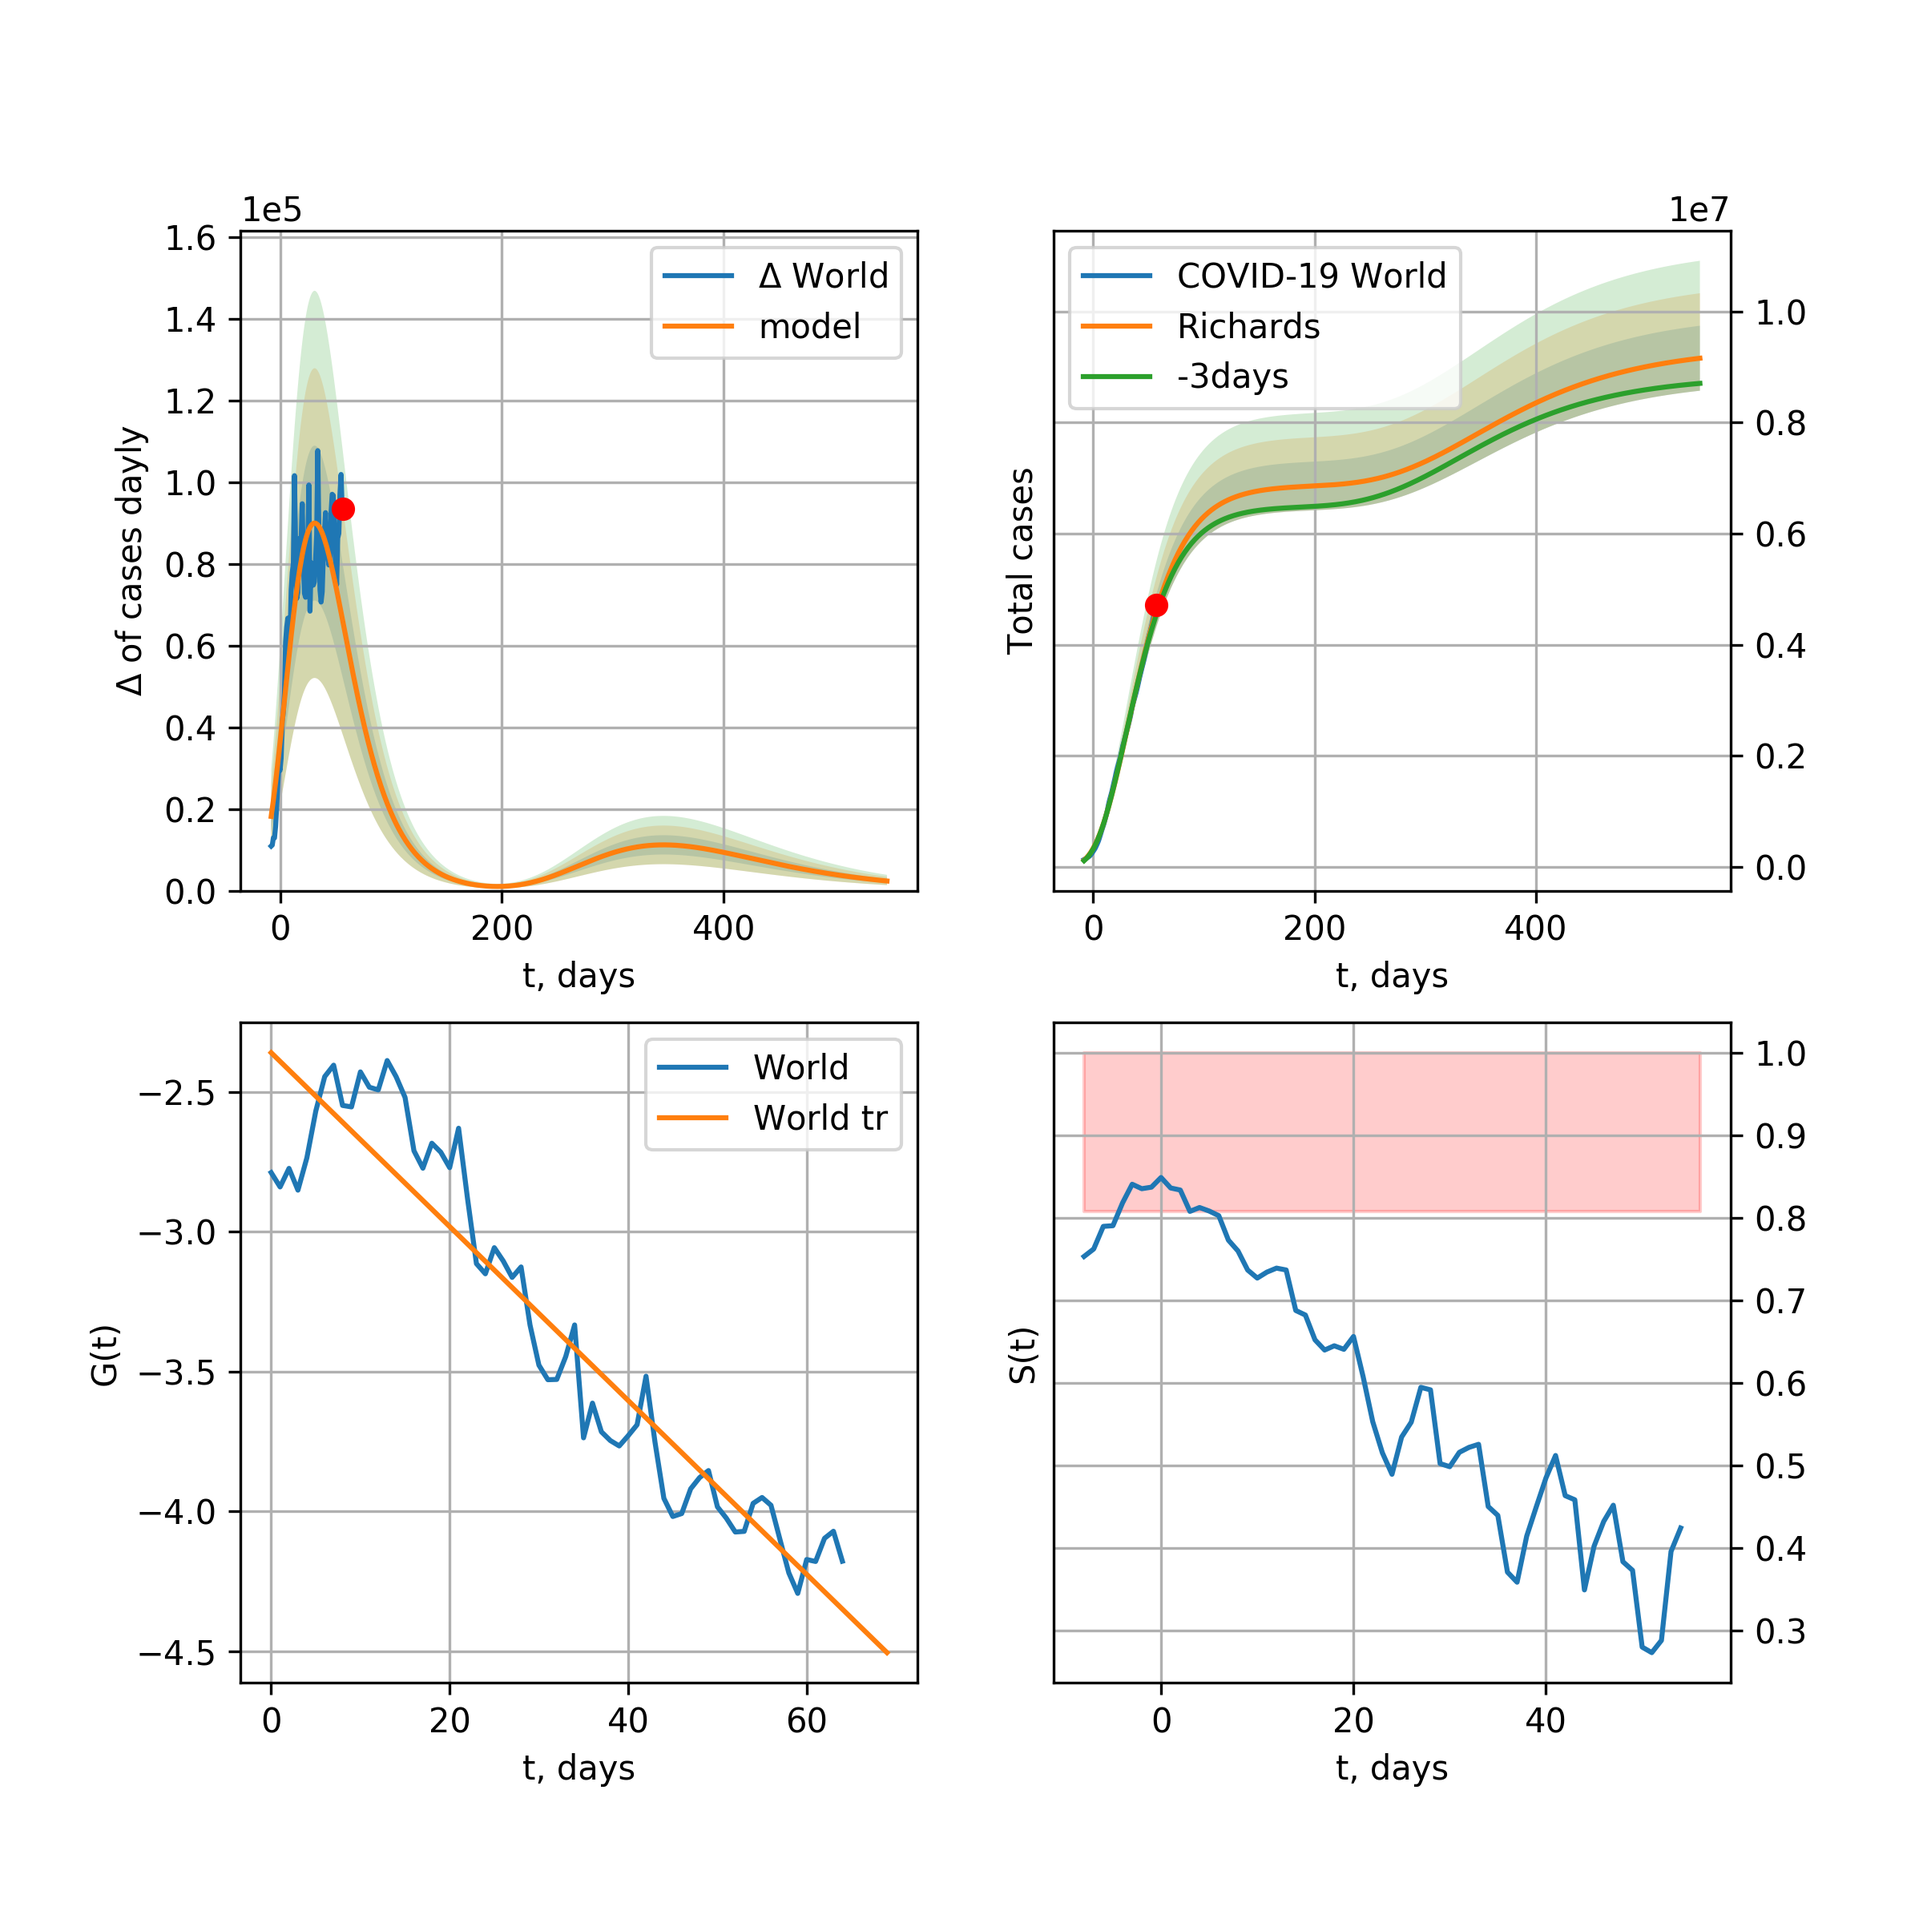
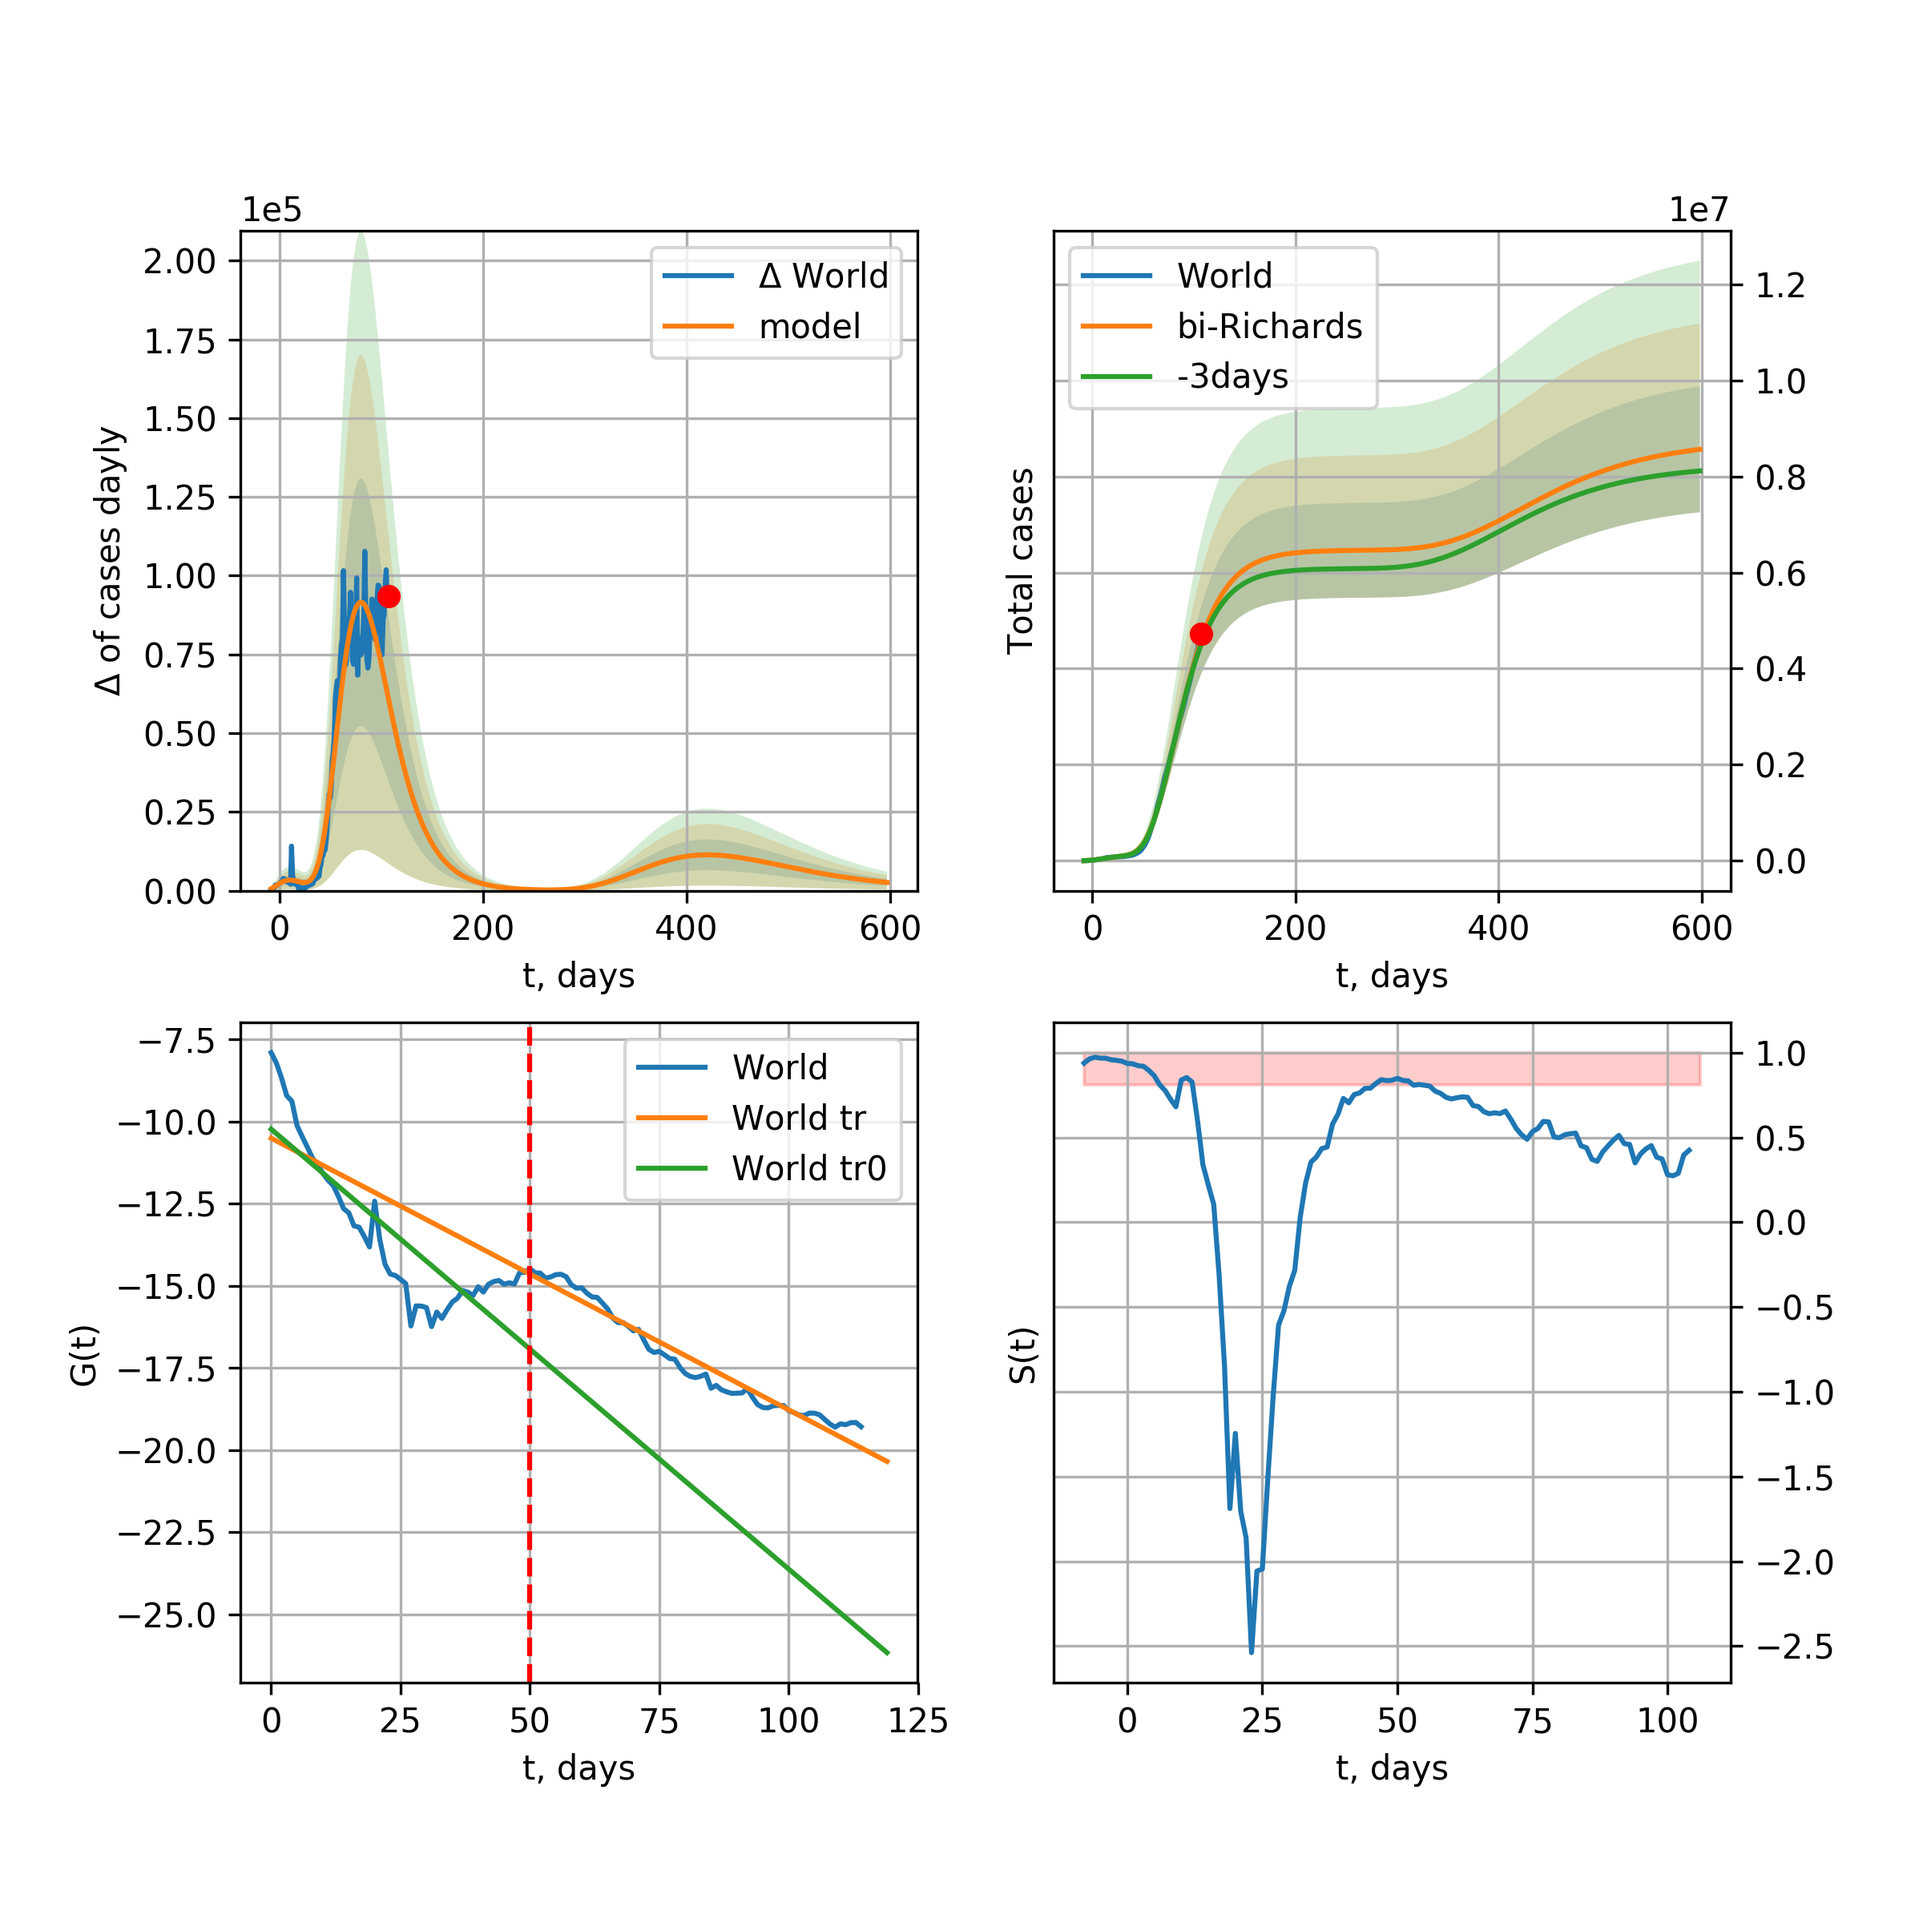
W renew 2020-05-16

diff --git a/_site/index.html b/_site/index.html
@@ -119,18 +119,21 @@ Assuming that all countries choose a slow (Korean scenario) exit from quarantine
 <img src="pictures/covidcasesWorld36_R.png" alt="hi" class="inline"/><br /> 
 
   World data at: 2020-05-16<br />
-+3 day model MAPE: 0.016220<br />
-model: Richards<br />
-coeffs: [ 6.86816211e+06  2.16499411e+00 -8.24815624e+01  1.65882997e-02]<br />
++3 day model MAPE: 0.019636<br />
+model: bi-Richards<br />
+coeffs: [ 6.34811395e+06  3.40749732e+00 -3.24269878e+01  1.15686294e-02]<br />
 S.Korea scenario coeffs: [0.36242246, 2.56241634, 1.84890887, 0.13324732]<br />
-rational stdev: 0.063858<br />
+rational stdev: 0.152814<br />
 forecast at the end of period: +491 days<br />
-	 deltaDaycases: 2374<br />
-	 total cases: 9156441 ± 584713<br />
-	 total death: 607424 ± 116366<br />
-trend coefficient of determination: 0.899516 <br />
- intercept: -2.358926 <br />
- slope: -0.031102<br />
+	 deltaDaycases: 2626<br />
+	 total cases: 8564214 ± 1308732<br />
+	 total death: 568137 ± 260457<br />
+bi-logisticQ approximation splitting point: 50<br />
+trend coefficient of determination: 0.724620 <br />
+ intercept: -10.227844 <br />
+ slope: -0.133981<br />trend coefficient of determination: 0.955468 <br />
+ intercept: -10.502016 <br />
+ slope: -0.082742<br />
       <br /> 
 
 European Union
